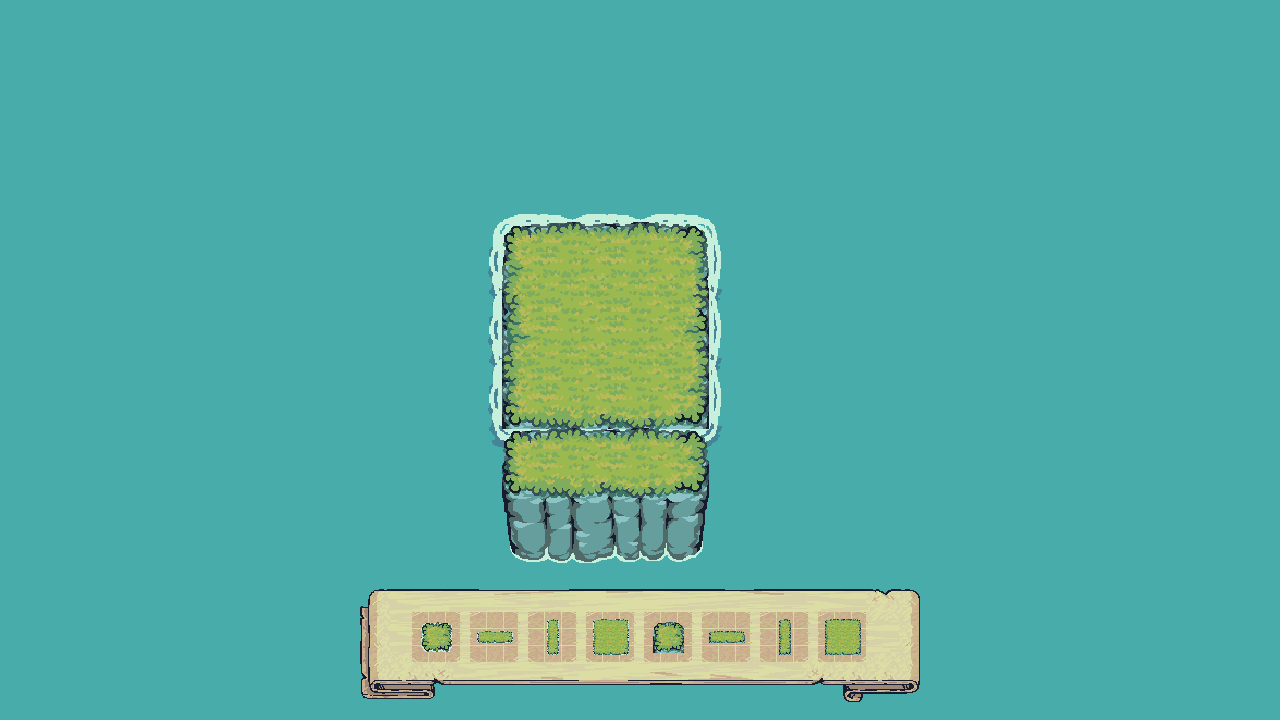
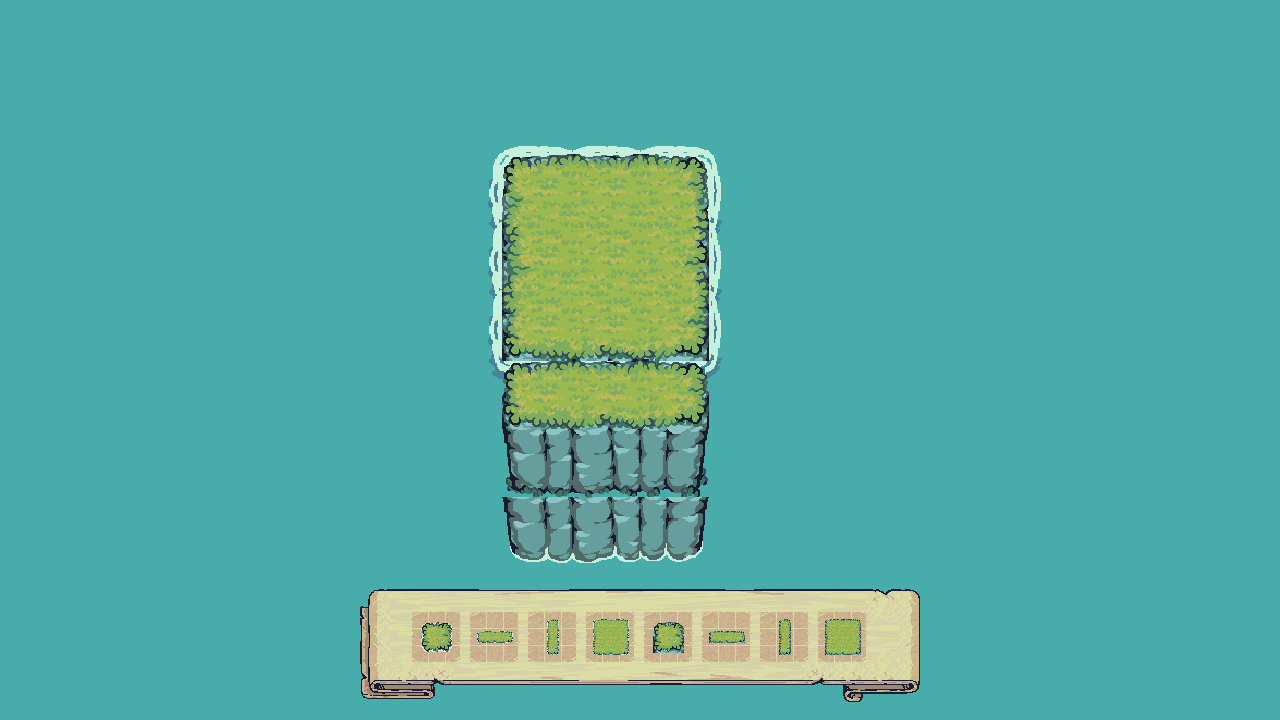
fix(web): render full island rock profile

Changed region(s): [[0.375, 0.1833, 0.5625, 0.7028]]

diff --git a/apps/web/src/game/grassPlacement.ts b/apps/web/src/game/grassPlacement.ts
@@ -398,10 +398,10 @@ export function getSecondLayerTerrainPieces(args: {
 export function getIslandTerrainPieces(args: {
   occupiedCells: GridCell[];
 }) {
-  return getRaisedTerrainPieces(args.occupiedCells);
+  return getRaisedTerrainPieces(args.occupiedCells, 'full-island');
 }
 
-function getRaisedTerrainPieces(terrainCells: GridCell[]) {
+function getRaisedTerrainPieces(terrainCells: GridCell[], rockProfile: 'bottom-only' | 'full-island' = 'bottom-only') {
   const occupiedCells = getUniqueCells(terrainCells);
   const occupiedCellKeys = new Set(occupiedCells.map(getCellKey));
   const grassPieces = [...occupiedCells]
@@ -427,7 +427,7 @@ function getRaisedTerrainPieces(terrainCells: GridCell[]) {
   const topPieces = grassPieces.filter((piece) => !secondLayerFrontGrassFrames.has(piece.frame));
 
   return [
-    ...getSecondLayerRockPieces(rockSourceCells),
+    ...getSecondLayerRockPieces(rockSourceCells, rockProfile),
     ...frontPieces,
     ...topPieces,
     ...getSecondLayerFrontPieces(generatedFrontCells),
@@ -493,46 +493,49 @@ function getSecondLayerFrontSegmentPieces(segment: GridCell[]): TerrainPiece[] {
   });
 }
 
-function getSecondLayerRockPieces(bottomEdgeCells: GridCell[]): TerrainPiece[] {
+function getSecondLayerRockPieces(
+  bottomEdgeCells: GridCell[],
+  rockProfile: 'bottom-only' | 'full-island',
+): TerrainPiece[] {
   const rows = new Map<number, GridCell[]>();
 
   for (const cell of bottomEdgeCells) {
     const rockY = cell.y + 1;
     rows.set(rockY, [...(rows.get(rockY) ?? []), { x: cell.x, y: rockY }]);
+    if (rockProfile === 'full-island') {
+      rows.set(rockY + 1, [...(rows.get(rockY + 1) ?? []), { x: cell.x, y: rockY + 1 }]);
+    }
   }
 
   return [...rows.entries()]
     .sort(([leftY], [rightY]) => leftY - rightY)
-    .flatMap((entry) => getSecondLayerRockRowPieces(entry[1].sort(compareCells)));
+    .flatMap((entry, index) => getSecondLayerRockRowPieces(
+      entry[1].sort(compareCells),
+      rockProfile === 'full-island' && index === 0 ? 'wall' : 'bottom',
+    ));
 }
 
-function getSecondLayerRockRowPieces(rowCells: GridCell[]): TerrainPiece[] {
+function getSecondLayerRockRowPieces(rowCells: GridCell[], rowType: 'wall' | 'bottom') {
   const pieces: TerrainPiece[] = [];
   let segment: GridCell[] = [];
 
   for (const cell of rowCells) {
     const previousCell = segment[segment.length - 1];
     if (previousCell && cell.x !== previousCell.x + 1) {
-      pieces.push(...getSecondLayerRockSegmentPieces(segment));
+      pieces.push(...getSecondLayerRockSegmentPieces(segment, rowType));
       segment = [];
     }
     segment.push(cell);
   }
 
-  return [...pieces, ...getSecondLayerRockSegmentPieces(segment)];
+  return [...pieces, ...getSecondLayerRockSegmentPieces(segment, rowType)];
 }
 
-function getSecondLayerRockSegmentPieces(segment: GridCell[]): TerrainPiece[] {
+function getSecondLayerRockSegmentPieces(segment: GridCell[], rowType: 'wall' | 'bottom'): TerrainPiece[] {
   if (segment.length === 0) return [];
 
   return segment.map((cell, index) => {
-    const frame = segment.length === 1
-      ? 53
-      : index === 0
-        ? 50
-        : index === segment.length - 1
-          ? 52
-          : 51;
+    const frame = getRockSegmentFrame(segment.length, index, rowType);
 
     return {
       cell,
@@ -540,6 +543,20 @@ function getSecondLayerRockSegmentPieces(segment: GridCell[]): TerrainPiece[] {
       surface: 'rock' as const,
     };
   });
+}
+
+function getRockSegmentFrame(segmentLength: number, index: number, rowType: 'wall' | 'bottom') {
+  if (rowType === 'wall') {
+    if (segmentLength === 1) return 44;
+    if (index === 0) return 41;
+    if (index === segmentLength - 1) return 43;
+    return 42;
+  }
+
+  if (segmentLength === 1) return 53;
+  if (index === 0) return 50;
+  if (index === segmentLength - 1) return 52;
+  return 51;
 }
 
 function compareCells(left: GridCell, right: GridCell) {

diff --git a/apps/web/src/test/grass-placement.test.ts b/apps/web/src/test/grass-placement.test.ts
@@ -401,9 +401,12 @@ describe('grass placement model', () => {
     expect(getIslandTerrainPieces({
       occupiedCells: getGrassShapeCells(grassShapes.nine, { x: 4, y: 2 }),
     })).toEqual([
-      { cell: { x: 4, y: 6 }, frame: 50, surface: 'rock' },
-      { cell: { x: 5, y: 6 }, frame: 51, surface: 'rock' },
-      { cell: { x: 6, y: 6 }, frame: 52, surface: 'rock' },
+      { cell: { x: 4, y: 6 }, frame: 41, surface: 'rock' },
+      { cell: { x: 5, y: 6 }, frame: 42, surface: 'rock' },
+      { cell: { x: 6, y: 6 }, frame: 43, surface: 'rock' },
+      { cell: { x: 4, y: 7 }, frame: 50, surface: 'rock' },
+      { cell: { x: 5, y: 7 }, frame: 51, surface: 'rock' },
+      { cell: { x: 6, y: 7 }, frame: 52, surface: 'rock' },
       { cell: { x: 4, y: 2 }, frame: 5, surface: 'grass' },
       { cell: { x: 5, y: 2 }, frame: 6, surface: 'grass' },
       { cell: { x: 6, y: 2 }, frame: 7, surface: 'grass' },

diff --git a/apps/web/src/test/sea-level-scene.test.ts b/apps/web/src/test/sea-level-scene.test.ts
@@ -13,17 +13,17 @@ describe('sea-level grass placement scene plan', () => {
         {
           id: 'initial-island',
           shapeKey: 'nine',
-          anchor: { x: 4, y: 2 },
+          anchor: { x: 4, y: 1 },
           cells: [
+            { x: 4, y: 1 },
+            { x: 5, y: 1 },
+            { x: 6, y: 1 },
             { x: 4, y: 2 },
             { x: 5, y: 2 },
             { x: 6, y: 2 },
             { x: 4, y: 3 },
             { x: 5, y: 3 },
             { x: 6, y: 3 },
-            { x: 4, y: 4 },
-            { x: 5, y: 4 },
-            { x: 6, y: 4 },
           ],
         },
       ],

diff --git a/apps/web/src/game/seaLevelScenePlan.ts b/apps/web/src/game/seaLevelScenePlan.ts
@@ -11,17 +11,17 @@ export const seaLevelScenePlan = {
     {
       id: 'initial-island',
       shapeKey: 'nine',
-      anchor: { x: 4, y: 2 },
+      anchor: { x: 4, y: 1 },
       cells: [
+        { x: 4, y: 1 },
+        { x: 5, y: 1 },
+        { x: 6, y: 1 },
         { x: 4, y: 2 },
         { x: 5, y: 2 },
         { x: 6, y: 2 },
         { x: 4, y: 3 },
         { x: 5, y: 3 },
         { x: 6, y: 3 },
-        { x: 4, y: 4 },
-        { x: 5, y: 4 },
-        { x: 6, y: 4 },
       ],
     },
   ] satisfies GrassPatch[],

diff --git a/docs/ai-usage-log.md b/docs/ai-usage-log.md
@@ -245,3 +245,12 @@
 - 测试过程：先把 `grass-placement` 中所有 rock frame 期望从 `41/42/43/44` 改为 `50/51/52/53`，观察到 12 项失败，再修改生成逻辑使目标测试通过。
 - 验证：`pnpm --filter web test` 72/72 通过；`pnpm --filter web lint`、`pnpm --filter web typecheck` 和 `pnpm --filter web build` 通过。Playwright 本地桌面 1280x720 与移动 390x844 均渲染底排圆润岩石底座，加载 `Tilemap_color1.png` 和 `Water Foam.png`，未请求 `Shadow.png`，无 console/request error，帧差确认水浪动画继续播放；截图已更新。
 - 隐私检查：未记录访问密钥、Token、数据库连接串或其他秘密信息。
+
+## 2026-07-26：按 tileset 示例补完整海岛岩壁
+
+- 问题：用户反馈“没有改”，截图显示海岛仍不像 `Tilemap_color1.png` 右侧示例中的完整岩石岛。
+- 根因：上一轮只把唯一岩石行替换为底排 `50/51/52`，但示例结构实际是草前脸下方先有中间岩壁 `41/42/43`，再接底排岩石 `50/51/52`；同时完整岛体变高后默认 anchor 太低，底部会靠近 HUD。
+- AI 贡献：将第一层 `getIslandTerrainPieces()` 改为完整海岛 profile：草面、草前脸、中间岩壁行、底部圆岩行；第二层仍保持原有底座 profile。默认海岛 anchor 从 `{ x: 4, y: 2 }` 上移到 `{ x: 4, y: 1 }`，让完整岩石岛不被底部 HUD 遮挡。
+- 测试过程：先把第一层 3x3 岛测试改为期望 `41/42/43` 与 `50/51/52` 两行岩石，观察到旧实现缺中间岩壁的失败，再实现完整 profile 并调整默认岛位置。
+- 验证：`pnpm --filter web test` 72/72 通过；`pnpm --filter web lint`、`pnpm --filter web typecheck` 和 `pnpm --filter web build` 通过。Playwright 本地桌面 1280x720 与移动 390x844 均渲染完整两行岩石海岛，加载 `Tilemap_color1.png` 和 `Water Foam.png`，未请求 `Shadow.png`，无 console/request error，帧差确认水浪动画继续播放；截图已更新。
+- 隐私检查：未记录访问密钥、Token、数据库连接串或其他秘密信息。
